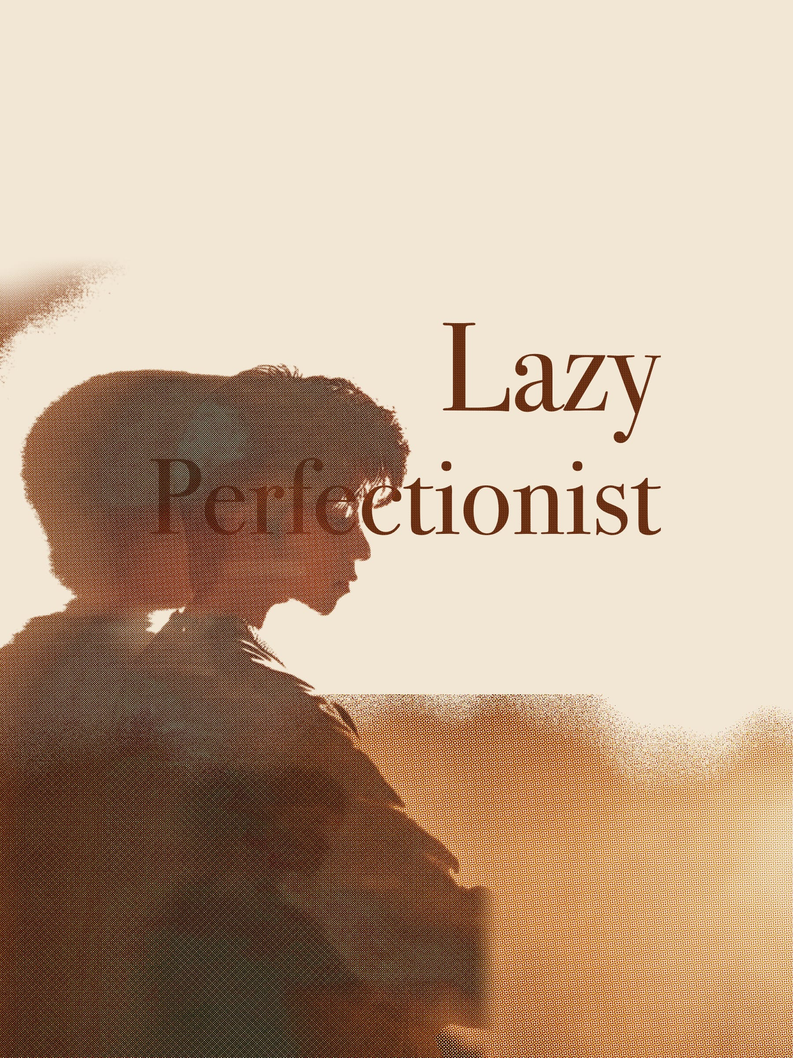
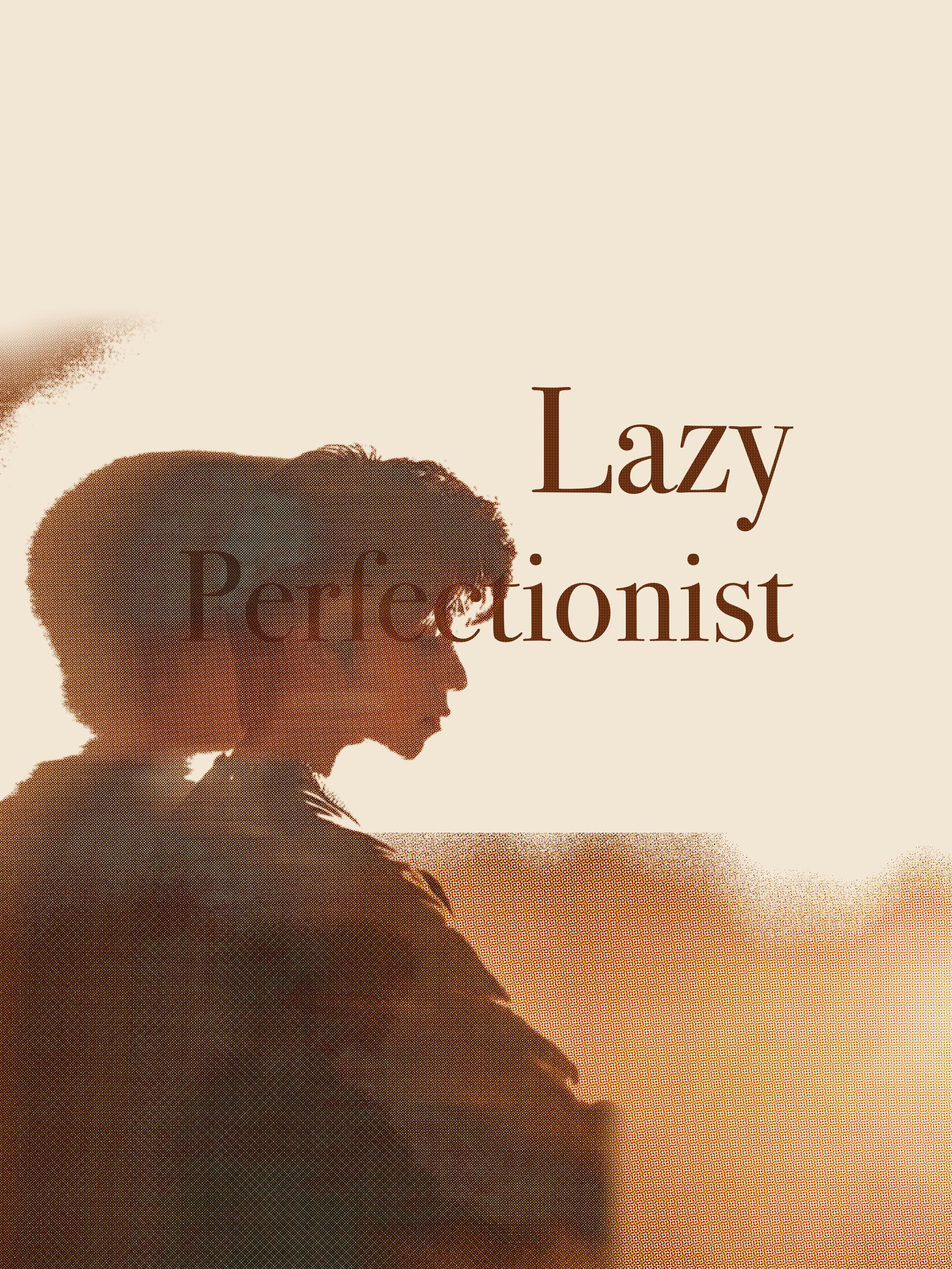
Re-strike the plates and give the sheet its own scrollbar
The wide plate goes to 3840×2160 and the tall one to 2160×2880, so a
21:9 fold (3440 CSS px) paints from a wider plate instead of enlarging a
2400 one — the optimizer never enlarges, so the source has to meet the
widest fold. Normal screens still resolve to the same variants.

The figure grows 5% against the name on both plates (FIG = 1.05), head
anchored, so the extra height goes into the wall rather than up into the
wordmark.

The site scrollbar is now the print's: paper track ruled on its left,
line-coloured thumb, rust on hover, press while dragged; Firefox gets the
standard colours in an exclusive @supports branch. The e2e crop test now
records the plate's natural width at 390 / 1920 / 3440 and asserts the
fold is never painted from a narrower plate.

Changed region(s): [[0.0, 0.3438, 1.0, 1.0], [0.0, 0.25, 0.1244, 0.3438]]

diff --git a/src/app/globals.css b/src/app/globals.css
@@ -58,6 +58,51 @@
     outline-color: var(--color-ember-ink);
   }
 
+  /* The sheet's own scrollbar: the paper as track, the print's hairline as the
+     rule along its edge, a line-coloured thumb inset from that rule, rust on
+     hover and pressed dark under the grip. Chromium and Safari get the pseudo-
+     elements; Firefox has none, so it takes the standard colours and a thin
+     bar instead (it would otherwise ignore them once ::-webkit-scrollbar is
+     matched, which is why the two branches are exclusive). */
+  @supports selector(::-webkit-scrollbar) {
+    ::-webkit-scrollbar {
+      width: 13px;
+      height: 13px;
+    }
+
+    ::-webkit-scrollbar-track {
+      background-color: var(--color-paper);
+      border-left: 1px solid var(--color-line);
+    }
+
+    ::-webkit-scrollbar-thumb {
+      background-color: var(--color-line);
+      border-width: 3px;
+      border-style: solid;
+      border-color: var(--color-paper);
+      border-radius: 7px;
+    }
+
+    ::-webkit-scrollbar-thumb:hover {
+      background-color: var(--color-rust);
+    }
+
+    ::-webkit-scrollbar-thumb:active {
+      background-color: var(--color-press);
+    }
+
+    ::-webkit-scrollbar-corner {
+      background-color: var(--color-paper);
+    }
+  }
+
+  @supports not selector(::-webkit-scrollbar) {
+    html {
+      scrollbar-color: var(--color-line) var(--color-paper);
+      scrollbar-width: thin;
+    }
+  }
+
   @media (prefers-reduced-motion: reduce) {
     html {
       scroll-behavior: auto;

diff --git a/tests/e2e/home.spec.ts b/tests/e2e/home.spec.ts
@@ -482,6 +482,7 @@ test.describe('poster hero', () => {
       return {
         section: section!,
         art: art!,
+        plateWidth: natural[0],
         plateRatio: natural[0] / natural[1],
         position,
         src: (await plate.getAttribute('src')) ?? '',
@@ -506,6 +507,22 @@ test.describe('poster hero', () => {
       'a desktop fold is wider than the 16:9 plate, so its top and bottom are trimmed',
     ).toBeGreaterThan(desktop.plateRatio);
     expect(desktop.position, 'the wide plate is anchored right').toMatch(/100%|\bright\b/);
+
+    // The plates are struck for the widest screens: a 21:9 fold gets a plate
+    // at least as wide as it is, so the halftone is never enlarged and does
+    // not come apart. Same rule everywhere — never upscaled.
+    const ultrawide = await measure(3440, 1440);
+    expect(ultrawide.src).toContain('lusg-poster-wide');
+    expect(ultrawide.art.width, 'a 21:9 fold is filled edge to edge').toBeGreaterThan(3000);
+    expect(
+      ultrawide.plateWidth,
+      'the 21:9 fold gets a plate as wide as itself, not an enlargement',
+    ).toBeGreaterThanOrEqual(ultrawide.art.width);
+    for (const shot of [phone, desktop, ultrawide]) {
+      expect(shot.plateWidth, `${shot.section.width}px fold must not enlarge its plate`).toBeGreaterThanOrEqual(
+        shot.art.width,
+      );
+    }
   });
 
   test('the page h1 is the band name: the poster carries it for the outline', async ({ page }) => {

diff --git a/changelogs/2026-11-06_the-plates-gain-a-strike.md b/changelogs/2026-11-06_the-plates-gain-a-strike.md
@@ -1,0 +1,106 @@
+---
+title: 2026-11-06 - The plates gain a strike
+description: Both plates were re-struck wider (3840×2160 and 2160×2880) so a 21:9 window is a downscale instead of an enlargement, the figure grows 5% against the name, and the sheet gets its own scrollbar.
+commit: pending
+author: Samuel Lee
+date: 2026-11-06
+category: 🎨 Design
+impact: Home hero, whole site
+---
+
+# 📅 2026-11-06 - The Plates Gain a Strike
+
+**Author**: Samuel Lee
+**Category**: 🎨 Design
+
+## 🎯 Overview
+
+Three things, all of them the same complaint from different sides: the
+fold is the print, so it should hold up wherever it is looked at, and
+nothing around it should look like the browser's furniture rather than
+the sheet's.
+
+- At 21:9 the plate was being **enlarged** — 2400 device pixels stretched
+  across a 3440px fold — and the halftone screen and the Didone both broke
+  into mush. Both plates now carry a second strike wide enough that every
+  fold is a downscale.
+- The figure read a touch small against the name. It is 5% larger now, on
+  both plates, anchored at the head so the extra growth goes down and
+  outward into the wall, never up into the name.
+- The page scrolled with the operating system's scrollbar. It now has the
+  print's own: paper for the track, the hairline rule along its edge, a
+  line-coloured thumb that turns rust under the cursor and pressed dark
+  while dragged.
+
+## 🖨 The plates, re-struck
+
+Same source, same luminance matte, same rotated CMYK halftone, same wall
+band — only the strike size changed. `S` scales every constant, so the
+composition is the same picture with more pixels in it.
+
+| Plate | Was | Now | Bytes | Screen pitch |
+| --- | --- | --- | --- | --- |
+| `lusg-poster.jpg` | 1800×2400 | 2160×2880 | 1312KB | 4.32px |
+| `lusg-poster-wide.jpg` | 2400×1350 | 3840×2160 | 1419KB | 5.76px |
+
+- **The wide plate's job is 21:9.** Next's optimizer never enlarges, so
+  the source has to be as wide as the widest fold it will meet. At 3440
+  CSS px the browser now asks for `w=3840` and gets it: 3440 down from
+  3840, not up from 2400. A 1920 desktop still resolves to the 1920
+  variant (311KB), so ordinary screens pay nothing for the extra strike.
+- **The tall plate covers retina tablets.** 2160×2880 means a 2048-device-
+  pixel tablet is a downscale too; the phone still gets a 640w variant
+  (38KB).
+- **`FIG = 1.05`.** The person layer grows 5% against the type but keeps
+  its head where it was (`PY = 323×S`, `575×S`), so the added height is
+  clipped at the plate's foot and the wall, and the head never crowds the
+  name. Ink positions against the sheet are otherwise unchanged: the wide
+  name runs x 53.9–91.7%, y 25.9–59.4%; the tall name x 18.8–83.3%, y
+  30.5–50.6%.
+- **Paper unchanged.** Both still sample exactly `#f2e7d5` at the margins.
+
+## 🧵 The scrollbar
+
+`src/app/globals.css`, in `@layer base`:
+
+- **Chromium and Safari** get `::-webkit-scrollbar`: a 13px paper track
+  ruled on its left by `--color-line`, and a `--color-line` thumb with a
+  3px paper border and a 7px radius — inset from the track's edge so the
+  rule reads as a printed margin line rather than a border on the bar.
+  Hover is `--color-rust`, dragging is `--color-press`.
+- **Firefox** has no such pseudo-elements, so it takes
+  `scrollbar-color: var(--color-line) var(--color-paper)` and a `thin`
+  width. The two branches are written as exclusive `@supports
+  selector(::-webkit-scrollbar)` / `@supports not …` pairs, because
+  Chromium stops honouring `::-webkit-scrollbar` once `scrollbar-color`
+  is set.
+- Both rules sit inside `@supports`, so a browser that matches neither
+  keeps its native bar rather than an unstyled one.
+
+## 🧪 Verified
+
+- 3440×1440: the fold is 3440×1309 and the plate resolves to the `w=3840`
+  variant — 3440 device pixels painted from 3840, a downscale. The name is
+  complete, the figure's head clear of it, the ember stamp above the foot.
+- 1920×1080 and 390×844 re-checked against the full-bleed contract: the
+  artwork box still equals the fold on all four sides, `object-fit: cover`,
+  the right plate per orientation, `object-position: 100% 50%` on the wide
+  plate.
+- Scrollbar, headed Chromium at 1280×720: a 13px gutter
+  (`innerWidth − clientWidth`), thumb line → rust on hover → press while
+  dragged, paper track, `scrollWidth === innerWidth` (no horizontal
+  overflow). Headless runs hide scrollbars, so this was measured in a
+  windowed browser.
+- `npx tsc --noEmit`, `npm run lint`, `npm run lint:css` — clean.
+- `npm run test:pipeline` — **59 passed, 0 failed** (4 skipped, chromium +
+  firefox + webkit).
+- `npm run test:mobile` — **21 passed, 0 failed**.
+- `tests/e2e/home.spec.ts` now records the plate's natural width and
+  asserts, at 390, 1920 and 3440, that the fold is never painted from a
+  plate narrower than itself — the 21:9 complaint, as a contract.
+
+## 🔁 Built on
+
+`changelogs/2026-11-05_the-fold-goes-full-bleed.md` (6cf7c11): the crop
+windows and the name placement it measured still hold; this raises the
+strike under them and enlarges the figure inside them.
